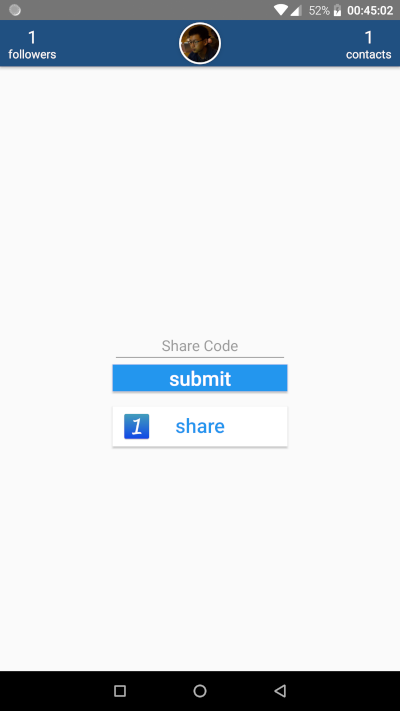
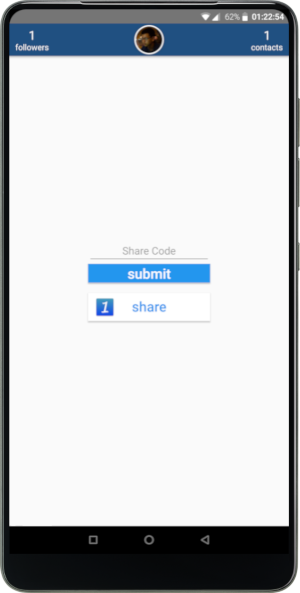
Added mouseover for oneShare main

Changed region(s): [[0.0, 0.0, 1.0, 1.0], [0.27, 0.3946, 0.72, 0.6374]]

diff --git a/projects/index.html b/projects/index.html
@@ -10,7 +10,7 @@
     <script src="https://use.fontawesome.com/deb6d0cd20.js"></script>
   </head>
   <body style="font-family: 'Lato'">
-    <nav class="navbar navbar-expand-lg navbar-light bg-light">
+    <nav class="navbar navbar-expand-lg navbar-dark bg-dark">
         <div class="collapse navbar-collapse flex-grow-1 text-right" id="myNavbar">
             <ul class="navbar-nav ml-auto flex-nowrap">
                 <li class="nav-item">
@@ -29,33 +29,37 @@
         </div>
     </nav>
 
+    <br><br><br>
+
     <div class="container">
-      <h1>Main projects</h1><br>
+      <h1>Main</h1><br>
       <div class="row">
         <div class="col-sm-4" align="center">
           <a href="https://jasontu.io/Yasny-LandingPage">
-            <img src="./Yasny/logo.png" >
+            <img src="./Yasny/phone_frame.png" >
             <h3>Yasny</h3>
           </a>
           <p>List-based social media</p>
         </div>
         <div class="col-sm-4" align="center">
           <a href="https://synople.io/sAudio">
-            <img src="./sAudio/logo.png" >
+            <img src="./sAudio/phone_frame.png" >
             <h3>sAudio</h3>
           </a>
           <p>Adaptive music listening</p>
         </div>
         <div class="col-sm-4" align="center">
           <a href="./oneShare/index.html">
-            <img src="./oneShare/logo.png" >
+            <img src="./oneShare/phone_frame.png" onmouseover="this.src='./oneShare/main.png'" onmouseout="this.src='./oneShare/phone_frame.png'">
             <h3>oneShare</h3>
           </a>
           <p>Modern address book</p>
         </div>
       </div>
       <br><br>
+      <hr>
       <h1>Other</h1>
+      <br><br>
       <div class="row">
         <div class="col-sm-6" align="center">
           <a href="https://github.com/jason-tu/Truffle-Android">

diff --git a/experience/index.html b/experience/index.html
@@ -10,7 +10,7 @@
     <script src="https://use.fontawesome.com/deb6d0cd20.js"></script>
   </head>
   <body style="font-family: 'Lato'">
-    <nav class="navbar navbar-expand-lg navbar-light bg-light">
+    <nav class="navbar navbar-expand-lg navbar-dark bg-dark">
         <div class="collapse navbar-collapse flex-grow-1 text-right" id="myNavbar">
             <ul class="navbar-nav ml-auto flex-nowrap">
                 <li class="nav-item">
